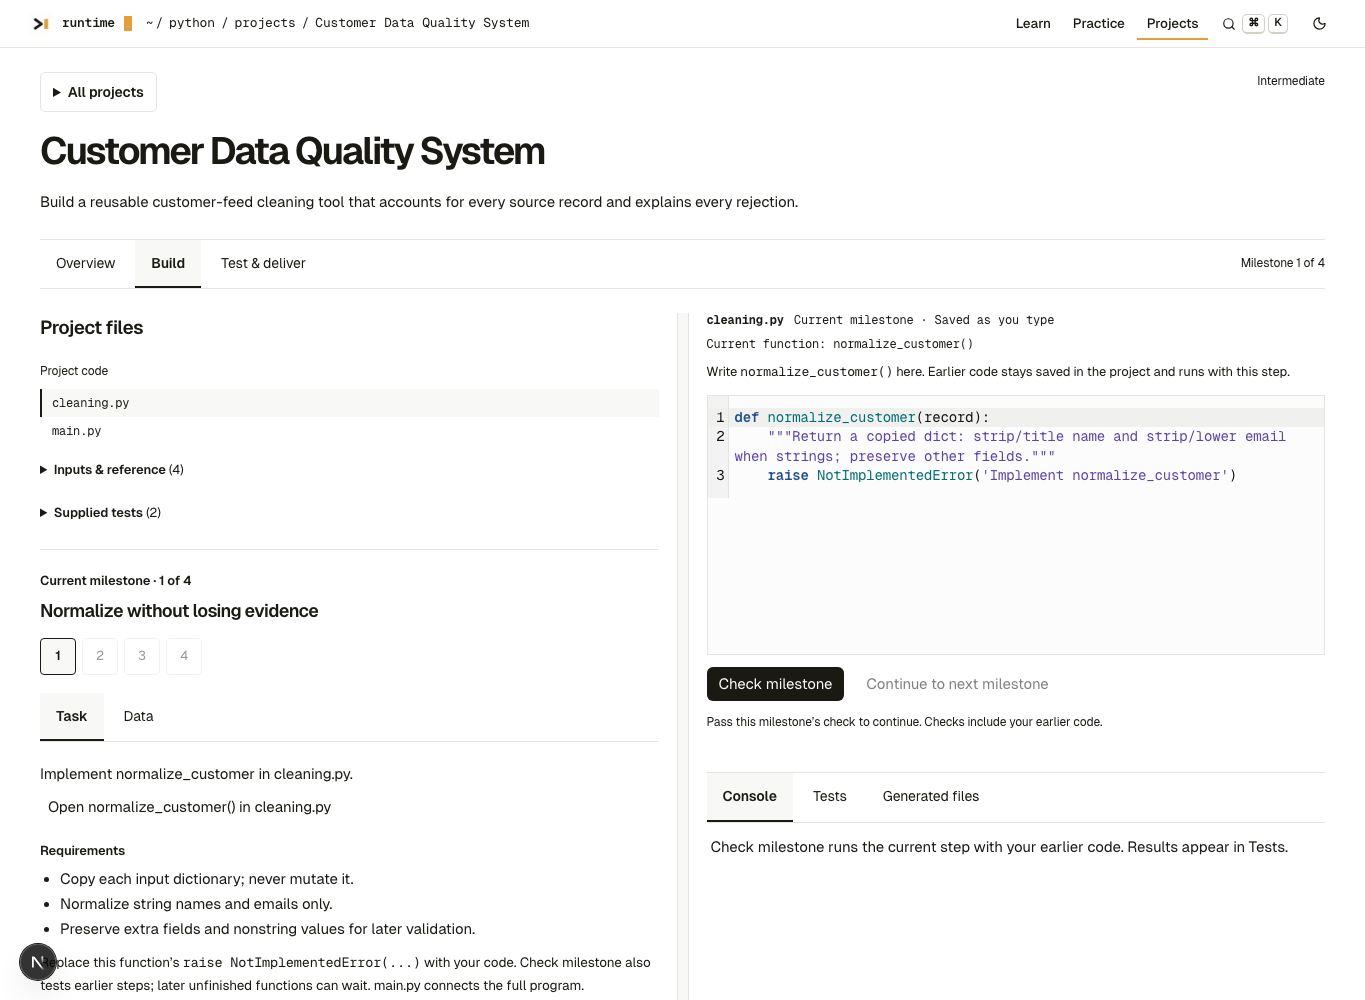
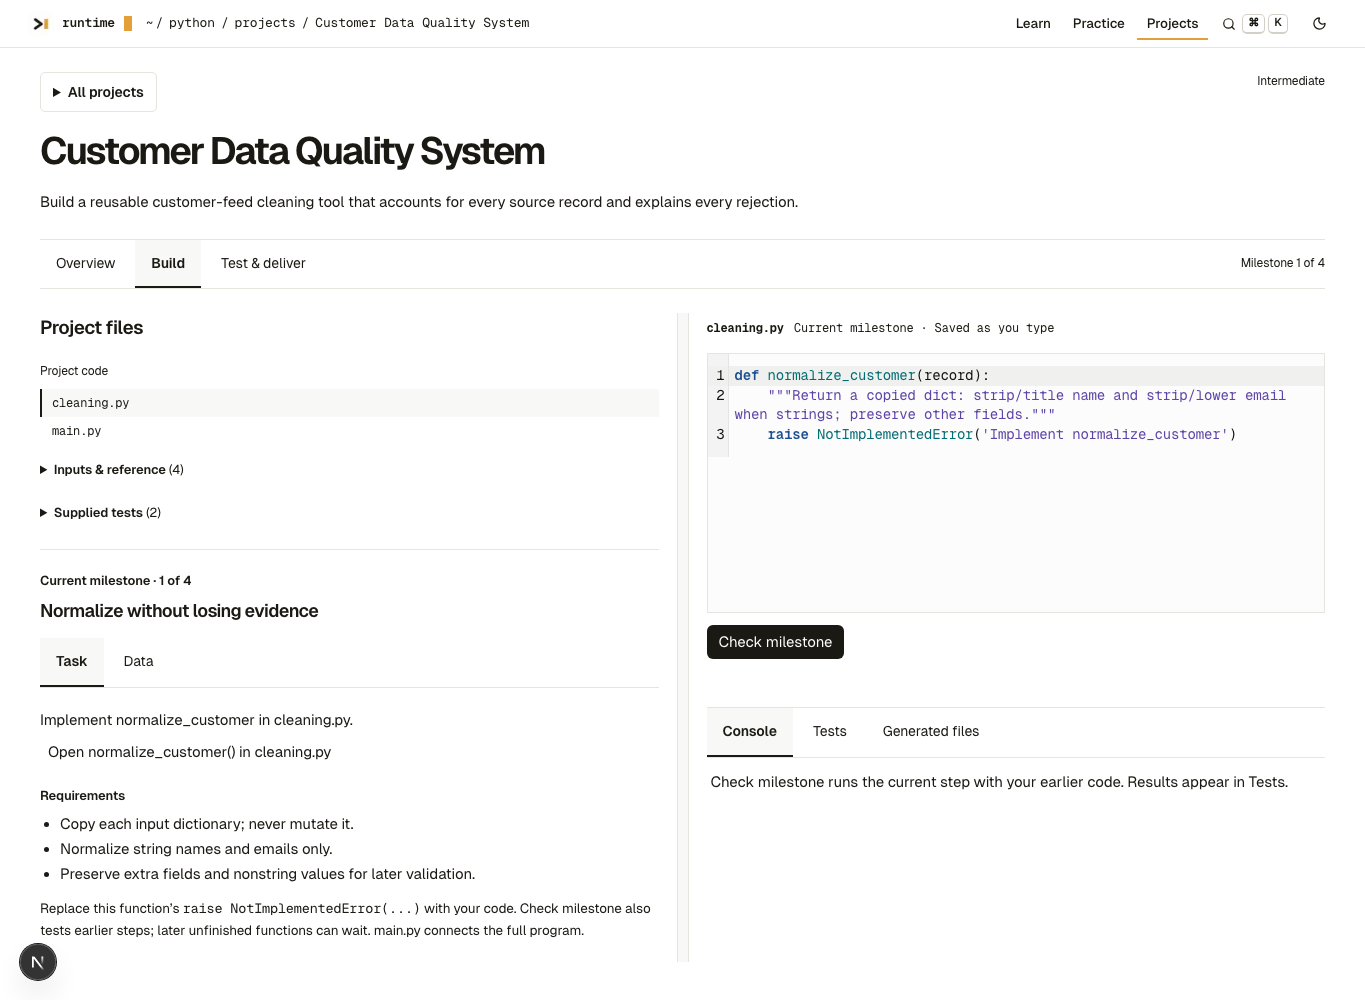
Simplify Python milestone controls and advance after passing checks

diff --git a/src/features/py/projects-v2/Workspace.tsx b/src/features/py/projects-v2/Workspace.tsx
@@ -42,11 +42,8 @@ export function ProjectWorkspace({project,projects,initialStage}:{project:Projec
  const range=targetFile&&targetFunction?functionRange(draft.files[targetFile],targetFile,current.id,targetFunction,knownFunctions,draft.functionRanges):null;
  const editingStep=draft.selected===targetFile&&!!range;
  function editStep(value:string){if(!range||!targetFile)return;setDraft(d=>{const active=functionRange(d.files[targetFile],targetFile,current.id,targetFunction!,knownFunctions,d.functionRanges);if(!active)return d;const updated=replaceFunction(d.files[targetFile],current.id,active,value,d.functionRanges);const milestones={...d.milestones};for(const milestone of project.milestones.slice(d.milestone))if(milestones[milestone.id])milestones[milestone.id]={...milestones[milestone.id],passed:false};return {...d,files:{...d.files,[targetFile]:updated.source},functionRanges:updated.ranges,milestones};});}
- const verifiedCurrent=!!draft.evidence?.passed&&draft.evidence.snapshot===snapshot(draft.files);
- const firstUnfinished=project.milestones.findIndex(m=>!draft.milestones[m.id]?.passed);
- const unlockedThrough=verifiedCurrent||firstUnfinished<0?project.milestones.length-1:firstUnfinished;
- const currentPassed=verifiedCurrent||!!draft.milestones[current.id]?.passed&&draft.milestones[current.id].snapshot===snapshot(draft.files);
- function goToMilestone(index:number){if(index>unlockedThrough)return;setDraft(d=>({...d,milestone:index}));setReference('task');setRun(null);setNotice('');setOutput('console');}
+ const latest=useRef(draft);latest.current=draft;
+ const latestStage=useRef(stage);latestStage.current=stage;
  const started=Object.keys(draft.milestones).length>0||snapshot(draft.files)!==snapshot(project.starters);
  function startBuilding(){const unfinished=project.milestones.findIndex(m=>!draft.milestones[m.id]?.passed);setDraft(d=>({...d,milestone:unfinished<0?d.milestone:unfinished}));setReference('task');navigate('build');}
  const complete=canDeliver(project,draft);const stale=runSnapshot!==snapshot(draft.files);
@@ -55,8 +52,9 @@ export function ProjectWorkspace({project,projects,initialStage}:{project:Projec
   if(running.current)return;running.current=true;setBusy(true);setRunMode(mode);setRun(null);setNotice('');setOutput(mode==='run'?'console':'tests');const source={...draft.files};const sig=snapshot(source);const milestone=draft.milestone;
   try{const result=await executeProject(project,source,mode,milestone);setRun(result);setRunMode(mode);setRunSnapshot(sig);
    if(result.report){const evidence={snapshot:sig,passed:result.report.ok,time:Date.now(),checks:result.report.checks.map(c=>({label:c.label,passed:c.status==='pass'})),artifacts:'files' in result.result?result.result.files??[]:[]};
-    setDraft(d=>{if(mode==='acceptance')return {...d,evidence};const milestones={...d.milestones};for(const step of result.report!.ok?project.milestones.slice(0,milestone+1):[project.milestones[milestone]])milestones[step.id]={snapshot:sig,passed:result.report!.ok};return {...d,milestones};});
-    setNotice(result.report.summary);
+    const advance=mode==='milestone'&&result.report.ok&&snapshot(latest.current.files)===sig&&latest.current.milestone===milestone;
+    setDraft(d=>{if(mode==='acceptance')return {...d,evidence};const milestones={...d.milestones};for(const step of result.report!.ok?project.milestones.slice(0,milestone+1):[project.milestones[milestone]])milestones[step.id]={snapshot:sig,passed:result.report!.ok&&snapshot(d.files)===sig};return {...d,milestones,milestone:advance?Math.min(milestone+1,project.milestones.length-1):d.milestone};});
+    if(advance){setReference('task');setOutput('console');setRun(null);setNotice(`Milestone ${milestone+1} passed.`);if(milestone===project.milestones.length-1&&latestStage.current==='build')navigate('finish');}else setNotice(result.report.summary);
    }else setNotice('Run finished. Run does not award completion.');
   }catch(e){setNotice(e instanceof Error?e.message:String(e));}finally{running.current=false;setBusy(false);}
  }
@@ -85,22 +83,20 @@ export function ProjectWorkspace({project,projects,initialStage}:{project:Projec
    <h2>What you will deliver</h2><p>Your Python files and {project.artifacts.join(', ')}.</p>
    </div>
   </section>}
-  {stage==='build'&&<nav className="pv-mobile-nav" aria-label="Workspace shortcuts"><button onClick={()=>{setReference('task');document.querySelector('.pv-brief')?.scrollIntoView({block:'start'});}}>Task</button><button onClick={()=>document.querySelector('.pv-files')?.scrollIntoView({block:'start'})}>Files</button><button onClick={()=>document.querySelector('.pv-work')?.scrollIntoView({block:'start'})}>Editor</button><button onClick={()=>{setOutput('tests');document.querySelector('.pv-output')?.scrollIntoView({block:'start'});}}>Tests</button></nav>}
   {stage==='build'&&<div ref={layout} className="pv-build" style={{'--pv-task-width':`${paneWidth}%`} as CSSProperties}>
    <aside className="pv-brief">
     <section className="pv-files"><h2>Project files</h2><div className="pv-explorer" role="group" aria-label="File explorer"><div><p>Project code</p>{Object.keys(draft.files).map(name=><button key={name} aria-pressed={draft.selected===name} onClick={()=>setDraft(d=>({...d,selected:name}))}>{name}</button>)}</div>{[{label:'Inputs & reference',names:Object.keys(project.files).filter(name=>name!=='_expected.json'&&!name.endsWith('.py'))},{label:'Supplied tests',names:Object.keys(project.files).filter(name=>name.endsWith('.py'))}].map(group=><details key={group.label}><summary>{group.label} <span>({group.names.length})</span></summary>{group.names.map(name=><button key={name} aria-pressed={draft.selected===name} onClick={()=>setDraft(d=>({...d,selected:name}))}>{name}</button>)}</details>)}</div></section>
     <div className="pv-current-step"><p className="pv-milestone-label">Current milestone · {draft.milestone+1} of {project.milestones.length}</p><h2>{current.title}</h2></div>
-    <nav className="pv-step-progress" aria-label="Milestone progress">{project.milestones.map((m,i)=><button key={m.id} aria-current={i===draft.milestone?'step':undefined} disabled={i>unlockedThrough||busy} onClick={()=>goToMilestone(i)} aria-label={`Milestone ${i+1}: ${m.title}`}>{i+1}{draft.milestones[m.id]?.passed?' ✓':''}</button>)}</nav>
     <div className="pv-tab-bar" role="group" aria-label="Task and data"><button aria-pressed={reference==='task'} onClick={()=>setReference('task')}>Task</button><button aria-pressed={reference==='data'} onClick={()=>setReference('data')}>Data</button></div>
     {reference==='task'?<section className="pv-task"><p>{current.objective}</p>{targetFile&&<button className="rx-btn" onClick={openFunction}>Open {targetFunction}() in {targetFile}</button>}<h3>Requirements</h3><ul>{current.requirements.map(r=><li key={r}>{r}</li>)}</ul><p className="rx-small">Replace this function’s <code>raise NotImplementedError(...)</code> with your code. Check milestone also tests earlier steps; later unfinished functions can wait. main.py connects the full program.</p></section>:<section className="pv-inputs"><label htmlFor="project-data">Input file</label><select id="project-data" value={dataPath} onChange={e=>setDataPath(e.target.value)}>{project.datasets.map(d=><option key={d.path} value={d.path}>{d.path}</option>)}</select>{selectedData&&<><h2>{selectedData.path}</h2><p>{selectedData.purpose}</p><p className="rx-small">{selectedData.rows.toLocaleString()} records · {selectedData.format.toUpperCase()} · Fields: {selectedData.schema}</p><DataPreview dataset={selectedData}/><p className="rx-small">{selectedData.rows>5?'First 5 records shown.':'All records shown.'} Inputs are already available to your code.</p><button className="rx-btn" onClick={()=>setDraft(d=>({...d,selected:selectedData.path}))}>Open full input</button><button className="rx-btn" onClick={()=>downloadText(selectedData.path,project.files[selectedData.path])}>Download input</button></>}</section>}
 
    </aside>
    <div className="pv-divider" role="separator" aria-label="Resize task and editor columns" aria-orientation="vertical" aria-valuenow={paneWidth} aria-valuemin={25} aria-valuemax={55} tabIndex={0} onKeyDown={e=>{if(e.key==='ArrowLeft'||e.key==='ArrowRight'){e.preventDefault();setPaneWidth(v=>Math.max(25,Math.min(55,v+(e.key==='ArrowRight'?2:-2))));}}} onPointerDown={e=>{e.currentTarget.setPointerCapture(e.pointerId);}} onPointerMove={e=>{if(!e.currentTarget.hasPointerCapture(e.pointerId)||!layout.current)return;const box=layout.current.getBoundingClientRect();setPaneWidth(Math.max(25,Math.min(55,Math.round((e.clientX-box.left)/box.width*100))));}} onPointerUp={e=>e.currentTarget.releasePointerCapture(e.pointerId)}/>
    <section className="pv-work" aria-label="Project workspace">
-    <div className="pv-file-head"><b>{draft.selected}</b><span>{editingStep?'Current milestone · Saved as you type':'Read only · full file'}</span>{editable&&draft.selected===targetFile&&<span className="pv-function-label">Current function: {targetFunction}()</span>}{!editable&&<button className="rx-btn" onClick={()=>downloadText(draft.selected,text)}>Download full file</button>}</div>
-    {editingStep&&range&&targetFile?<><p className="pv-step-note">Write <code>{targetFunction}()</code> here. Earlier code stays saved in the project and runs with this step.</p><PyEditor ref={editor} key={`${current.id}:${draft.selected}`} value={draft.files[targetFile].slice(range.start,range.start+range.length)} onChange={editStep} onCheck={()=>execute('milestone')} label={`${targetFunction}, milestone Python editor`} minHeight="260px"/></>:<pre className="pv-full-source" role="textbox" aria-label={`${draft.selected}, read-only file`} aria-readonly="true" tabIndex={0}>{text}</pre>}
+    <div className="pv-file-head"><b>{draft.selected}</b><span>{editingStep?'Current milestone · Saved as you type':'Read only · full file'}</span>{!editable&&<button className="rx-btn" onClick={()=>downloadText(draft.selected,text)}>Download full file</button>}</div>
+    {editingStep&&range&&targetFile?<><PyEditor ref={editor} key={`${current.id}:${draft.selected}`} value={draft.files[targetFile].slice(range.start,range.start+range.length)} onChange={editStep} onCheck={()=>execute('milestone')} label={`${targetFunction}, milestone Python editor`} minHeight="260px"/></>:<pre className="pv-full-source" role="textbox" aria-label={`${draft.selected}, read-only file`} aria-readonly="true" tabIndex={0}>{text}</pre>}
     {!editingStep&&<button className="rx-btn" onClick={openFunction}>Return to current function</button>}
-    <div className="pv-actions"><button className="rx-btn primary" disabled={busy} onClick={()=>execute('milestone')}>Check milestone</button><button className="rx-btn" disabled={busy||!currentPassed} onClick={()=>{if(draft.milestone===project.milestones.length-1)navigate('finish');else goToMilestone(draft.milestone+1);}}>{draft.milestone===project.milestones.length-1?'Continue to Test & deliver':'Continue to next milestone'}</button></div><p className="pv-run-help">{currentPassed?'Milestone passed. Continue when you are ready.':'Pass this milestone’s check to continue. Checks include your earlier code.'}</p>
+    <div className="pv-actions"><button className="rx-btn primary" disabled={busy} onClick={()=>execute('milestone')}>Check milestone</button></div>
     <p className="pv-status" role="status">{busy?'Running Python…':notice}{run&&stale?' Code changed since this run. Check again.':''}</p>
     <section className="pv-output"><div className="pv-tab-bar" role="group" aria-label="Output views">{(['console','tests','files'] as const).map(value=><button key={value} aria-pressed={output===value} onClick={()=>setOutput(value)}>{value==='console'?'Console':value==='tests'?'Tests':'Generated files'}</button>)}</div><div className="pv-results">{output==='tests'?checks:output==='files'?artifacts:!run&&!busy?<p>Check milestone runs the current step with your earlier code. Results appear in Tests.</p>:<ConsoleView busy={busy} live={[]} ran={run?{result:'files' in run.result?{...run.result,files:[]}:run.result,code:runSnapshot}:null} edited={stale}/>}</div></section>
    </section>

diff --git a/src/features/py/projects-v2/projects.css b/src/features/py/projects-v2/projects.css
@@ -127,11 +127,8 @@
  .pv-build .pv-explorer button { width:auto; border:1px solid var(--rx-line); }
  .pv-tab-bar button,.pv-stage-nav button { padding:10px; }
 }
-.pv-mobile-nav { display:none; }
 @media(max-width:700px){
- .pv-mobile-nav { display:flex; position:sticky; top:48px; z-index:10; background:var(--rx-bg); border-bottom:1px solid var(--rx-line); margin-bottom:16px; }
- .pv-mobile-nav button { flex:1; padding:12px 6px; font-size:13px; }
- .pv-build .pv-brief,.pv-build .pv-files,.pv-build .pv-work,.pv-build .pv-output { scroll-margin-top:108px; }
+ .pv-build .pv-brief,.pv-build .pv-files,.pv-build .pv-work,.pv-build .pv-output { scroll-margin-top:64px; }
 }
 /* All stages share the same full-width page frame. */
 .pv-overview,.pv-finish { max-width:none; width:100%; margin:0; }
@@ -190,14 +187,8 @@
 .pv-explorer summary { cursor:pointer; padding:7px 0; font-size:13px; font-weight:600; }
 .pv-explorer summary span { color:var(--rx-dim); font-weight:400; }
 .pv-milestone-status { display:inline-block; margin-left:8px; font-size:12px; color:var(--rx-dim); }
-.pv-function-label { width:100%; }
 .pv-run-help { font-size:12px; color:var(--rx-dim); margin:0 0 8px; }
 .pv-finish-grid { align-items:start; }
 .pv-criteria li { margin:8px 0; }
 .pv-current-step h2 { font-size:18px; margin:6px 0 12px; }
 .pv-current-step p { margin:0; }
-.pv-step-progress { display:flex; flex-wrap:wrap; gap:6px; margin:0 0 18px; }
-.pv-step-progress button { min-width:36px; padding:7px 10px; border:1px solid var(--rx-line); border-radius:4px; font-size:13px; }
-.pv-step-progress [aria-current=step] { border-color:var(--rx-ink); font-weight:600; background:var(--rx-cell); }
-.pv-step-progress button:disabled { opacity:.45; cursor:not-allowed; }
-.pv-step-note { font-size:13px; margin:0 0 12px; }

diff --git a/docs/python/projects-v2/REPORT.md b/docs/python/projects-v2/REPORT.md
@@ -322,3 +322,10 @@ Build now presents only the active milestone's function in the editor. Function 
 The dropdown is replaced by milestone progress buttons and a gated Continue action. Future steps unlock only after passing the current cumulative check. Earlier steps remain revisitable; edits invalidate the affected step and later progress without deleting code. A successful cumulative check records the prerequisites it proved. Full-program execution remains available in Test & deliver. Overview's Start/Continue action resumes the first unfinished step. File references and supplied tests are grouped separately, and final acceptance criteria appear before running checks.
 
 Validation: Customer Data Quality was built through all four function editors in a browser, with passing milestone checks, saved earlier code, reload during the workflow, and final full-project acceptance. A separate case with missing milestone-1 behavior was rejected at milestone 2 despite a previously saved milestone-1 pass. Responsive checks pass for all six projects; unit tests cover isolated replacement, later-range adjustment, empty/invalid saved snippets, cross-file isolation and assembly of every project's milestone functions.
+
+## Automatic milestone progression
+
+Removed the small-screen Task/Files/Editor/Tests shortcut bar, numbered milestone buttons, Continue buttons and repeated function heading/instructions above the editor. Build shows the current function and one Check milestone action. A passing cumulative check automatically opens the next function while preserving earlier source. Failed checks stay on the current milestone; edits made during a check prevent stale results from advancing progress. Passing the last milestone opens Test & deliver, where full-project acceptance is still required for a verified download.
+
+Validation: the four-step Customer Data Quality browser workflow passed automatic progression, reload preservation, full acceptance and rejection of missing prerequisite behavior. Application TypeScript passed.
+Responsive browser checks passed for all six projects at desktop, small-tablet and phone widths, including absence of the removed controls.
